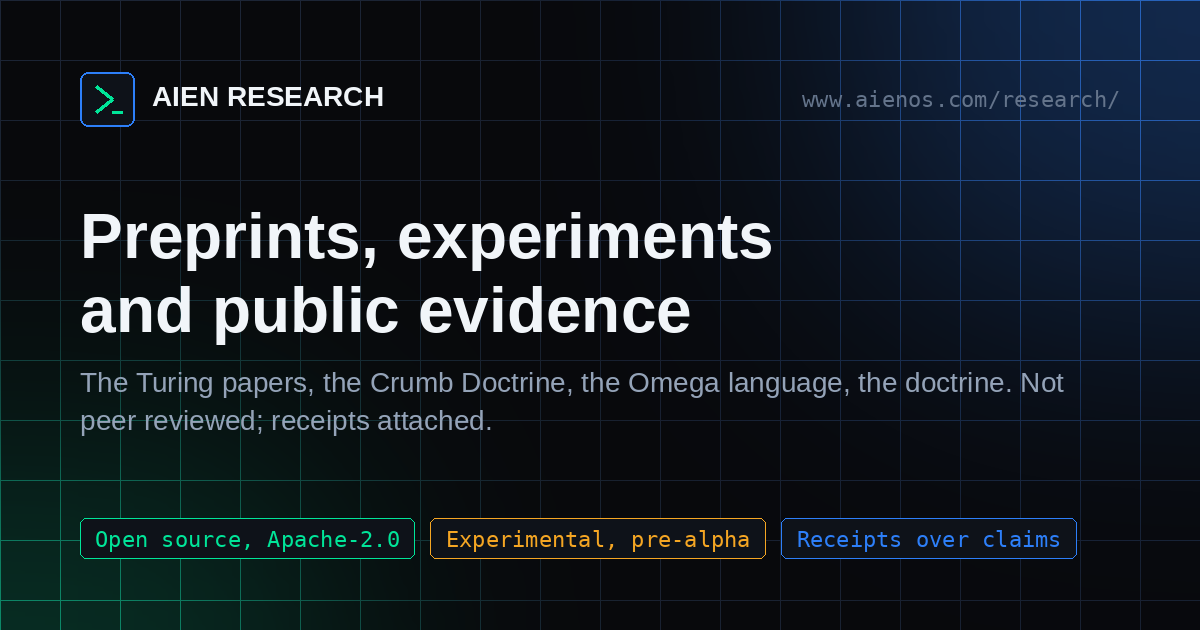
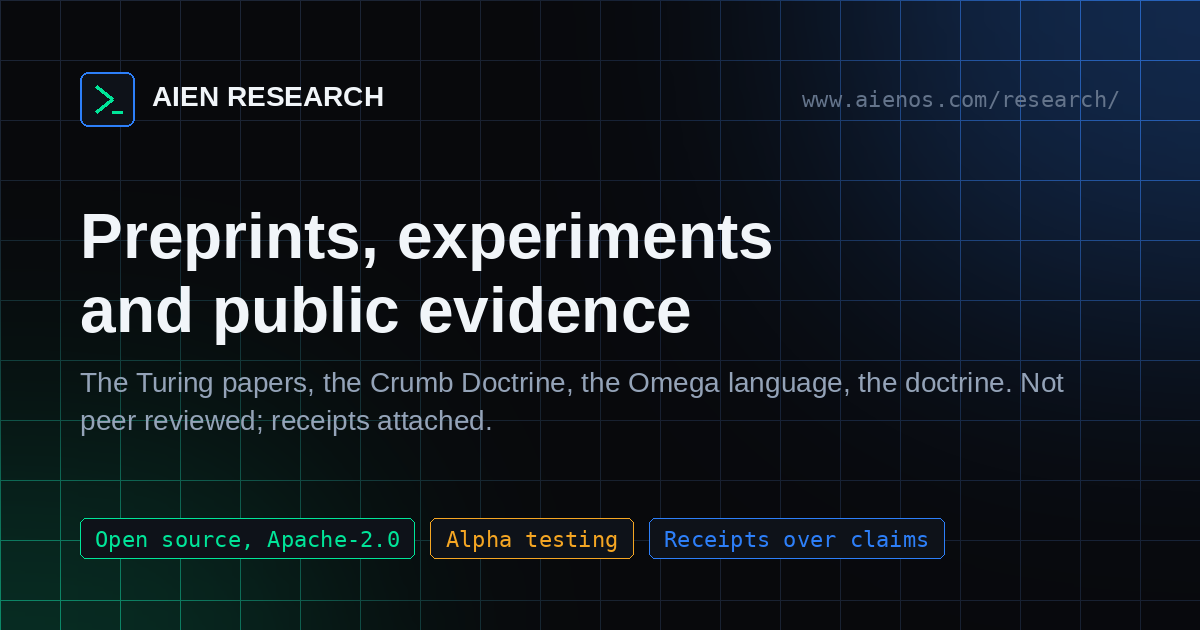
sanitize: alpha-testing hygiene (paths, hosts, emails, licence, labels)
- README: drop hub public IPv4 from DNS table
- omega.json receipt card: spark-b87b -> the DGX Spark
- og-cards.py badge: pre-alpha -> Alpha testing; regenerate og-*.png

Changed region(s): [[0.37, 0.8444, 0.8942, 0.8746]]

diff --git a/scripts/og-cards.py b/scripts/og-cards.py
@@ -138,7 +138,7 @@ def card(file, kicker, claim, sub, address):
         y += 38
     # Badges along the bottom.
     bx = 80
-    for label, col in (("Open source, Apache-2.0", GREEN), ("Experimental, pre-alpha", (245, 166, 35)), ("Receipts over claims", BLUE)):
+    for label, col in (("Open source, Apache-2.0", GREEN), ("Alpha testing", (245, 166, 35)), ("Receipts over claims", BLUE)):
         tw = d.textlength(label, font=fm)
         d.rounded_rectangle((bx, 518, bx + tw + 30, 558), radius=6, outline=col, width=1, fill=(14, 18, 25, 255))
         d.text((bx + 15, 526), label, font=fm, fill=col)

diff --git a/README.md b/README.md
@@ -47,7 +47,7 @@ To bind `aienos.com` on Gandi.net to the live site:
 | `AAAA` | `@` | `2606:50c0:8001::153` | 1800 |
 | `AAAA` | `@` | `2606:50c0:8002::153` | 1800 |
 | `AAAA` | `@` | `2606:50c0:8003::153` | 1800 |
-| `A` | `www` | `74.167.84.120` | 300 |
+| `A` | `www` | hub public IPv4 (see live DNS) | 300 |
 
 `www` terminates on the hub nginx edge, which proxies GitHub Pages as the origin. The edge exists because GitHub Pages cannot negotiate `Accept: text/markdown` or emit a `Link` header on a `.md` response. The apex still points at GitHub Pages and canonicalises to `www`.
 
